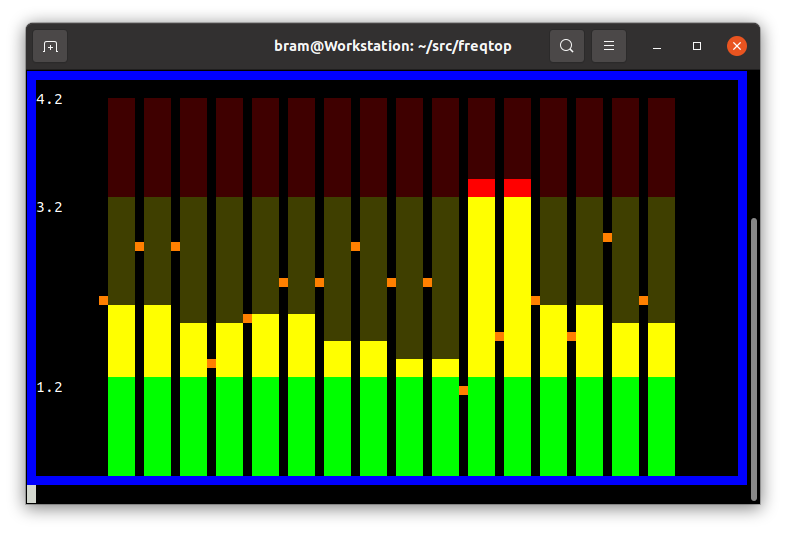
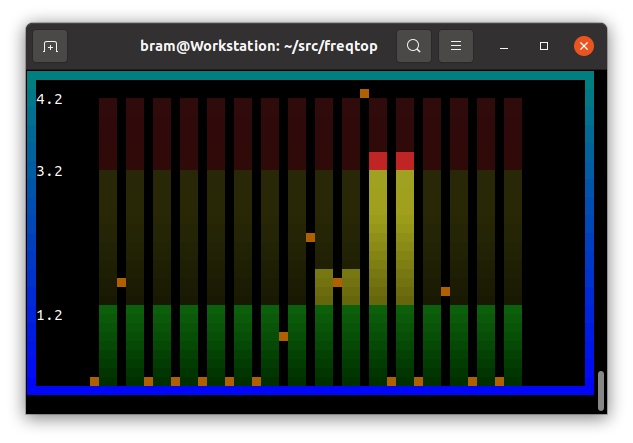
Support terminal resizing.

diff --git a/freqtop.c b/freqtop.c
@@ -1,4 +1,4 @@
-// imcat.c
+// freqtop.c
 //
 // by Abraham Stolk.
 // This software is in the Public Domain.
@@ -12,12 +12,28 @@
 #include <termios.h>
 #include <string.h>
 #include <inttypes.h>
+#include <signal.h>
+#include <sys/ioctl.h>
 
 
 static int termw=0, termh=0;
 static int doubleres=0;
 static int blend=1;
 static unsigned char termbg[3] = { 0,0,0 };
+
+static int imw=0;
+static int imh=0;
+static uint32_t* im=0;
+static char* legend=0;
+
+static int tabw=0;
+static int barw=0;
+static int barh=0;
+static int res=0;
+static int marginx=0;
+
+static int resized=1;
+
 
 #if defined(_WIN64)
 #	include <windows.h>
@@ -62,6 +78,70 @@ static void set_console_mode()
 #endif
 
 
+
+static void setup_image( int num_cpus )
+{
+	if (im) free(im);
+	if (legend) free(legend);
+
+	imw = termw;
+	imh = 2*(termh-1);
+	const size_t sz = imw*imh*4;
+	im = (uint32_t*) malloc(sz);
+	memset( im, 0x00, sz );
+
+	legend = (char*) malloc( imw*(imh/2) );
+	memset( legend, 0x00, imw*(imh/2) );
+
+	// Figure out layout.
+	tabw = (imw-4) / num_cpus;
+	tabw = tabw < 2 ? 2 : tabw;
+	barw = tabw-1;
+	barw = barw > 8 ? 8 : barw;
+	barh = imh-4;
+	marginx = (imw - tabw*num_cpus)/2;
+
+	// Draw border into image.
+	for ( int y=0; y<imh; ++y )
+		for ( int x=0; x<imw; ++x )
+		{
+			uint32_t b = 0x80 + (y/2) * 0xff / imh;
+			uint32_t g = 0xff - b;
+			uint32_t r = 0x00;
+			uint32_t a = 0xff;
+			uint32_t colour = a<<24 | b<<16 | g<<8 | r<<0;
+			im[y*imw+x] = x==0 || x==imw-1 || y==0 || y==imh-1 ? colour : 0x0;
+		}
+}
+
+
+static void setup_legend( int* freq_bas, int* freq_min, int* freq_max )
+{
+	// Set up the legend.
+	char label_bas[16];
+	char label_min[16];
+	char label_max[16];
+	snprintf( label_bas, sizeof(label_bas), "%3.1f", freq_bas[0] / 1000000.0f );
+	snprintf( label_min, sizeof(label_min), "%3.1f", freq_min[0] / 1000000.0f );
+	snprintf( label_max, sizeof(label_max), "%3.1f", freq_max[0] / 1000000.0f );
+	int y=1; int x=1;
+	sprintf( legend + y * imw + x, "%s", label_max );
+	if ( freq_bas[0] != freq_max[0] )
+	{
+		y=(imh/2) - (barh/2) * freq_bas[0] / (float) freq_max[0];
+		sprintf( legend + y * imw + x, "%s", label_bas );
+	}
+	y=(imh/2) - (barh/2) * freq_min[0] / (float) freq_max[0];
+	sprintf( legend + y * imw + x, "%s", label_min );
+}
+
+
+static void sigwinchHandler(int sig)
+{
+	resized = 1;
+}
+
+
 static struct termios orig_termios;
 
 void disableRawMode()
@@ -86,6 +166,8 @@ void enableRawMode()
 #define RESETALL  	"\x1b[0m"
 
 #define CURSORHOME	"\x1b[1;1H"
+
+#define CLEARSCREEN	"\x1b[2J"
 
 
 #if defined(_WIN64)
@@ -253,36 +335,18 @@ int main( int argc, char* argv[] )
 	// Step 0: Windows cmd.exe needs to be put in proper console mode.
 	set_console_mode();
 
-	// Step 1: figure out the width and height of terminal.
-	get_terminal_size();
-	fprintf( stderr, "Your terminal is size %dx%d\n", termw, termh );
-
-	const int imw = termw;
-	const int imh = 2*(termh-1);
-	const size_t sz = imw*imh*4;
-	uint32_t* im = (uint32_t*) malloc(sz);
-	memset( im, 0x00, sz );
-
-	char* legend = (char*) malloc( imw*(imh/2) );
-	memset( legend, 0x00, imw*(imh/2) );
-
-	for ( int y=0; y<imh; ++y )
-		for ( int x=0; x<imw; ++x )
-		{
-			im[y*imw+x] = x==0 || x==imw-1 || y==0 || y==imh-1 ? 0xffff0000 : 0x0;
-		}
-
+	// How many cores in this system?
 	const int num_cpus = sysconf( _SC_NPROCESSORS_ONLN );
 	fprintf( stderr, "Found %d cpus.\n", num_cpus );
 
-	int freq_bas[ num_cpus ];
-	int freq_min[ num_cpus ];
-	int freq_max[ num_cpus ];
-	int freq_cur[ num_cpus ];
-	float usages[ num_cpus ];
-	int coreids [ num_cpus ];
-	int rank    [ num_cpus ];
-	int policy  [ num_cpus ];
+	int freq_bas[ num_cpus ];	// Base frequencies.
+	int freq_min[ num_cpus ];	// Min frequencies.
+	int freq_max[ num_cpus ];	// Max frequencies.
+	int freq_cur[ num_cpus ];	// Current frequencies.
+	float usages[ num_cpus ];	// Core loads.
+	int coreids [ num_cpus ];	// Core ids (could map to hyperthread sibling.)
+	int rank    [ num_cpus ];	// Ordering when displaying bars.
+	int policy  [ num_cpus ];	// Which scaling policy to use. Sometimes (rPi4) cores share 1 policy.
 
 	for ( int cpu=0; cpu<num_cpus; ++cpu )
 	{
@@ -332,41 +396,31 @@ int main( int argc, char* argv[] )
 		fprintf(stderr, "rank %d: %d\n", i, rank[i] );
 	}
 
-	int tabw = (imw-4) / num_cpus;
-	tabw = tabw < 2 ? 2 : tabw;
-	int barw = tabw-1;
-	barw = barw > 8 ? 8 : barw;
-	const int barh = imh-4;
-	const int res = (int) roundf( freq_max[ 0 ] / (float)barh );
-	const int marginx = (imw - tabw*num_cpus)/2;
-
-	const uint32_t ora = 0xff0080ff;
-	const uint32_t yel = 0xff00ffff;
-	const uint32_t grn = 0xff00ff00;
-	const uint32_t red = 0xff0000ff;
-
-	// Set up the legend.
-	char label_bas[16];
-	char label_min[16];
-	char label_max[16];
-	snprintf( label_bas, sizeof(label_bas), "%3.1f", freq_bas[0] / 1000000.0f );
-	snprintf( label_min, sizeof(label_min), "%3.1f", freq_min[0] / 1000000.0f );
-	snprintf( label_max, sizeof(label_max), "%3.1f", freq_max[0] / 1000000.0f );
-	int y=1; int x=1;
-	sprintf( legend + y * imw + x, "%s", label_max );
-	if ( freq_bas[0] != freq_max[0] )
-	{
-		y=(imh/2) - (barh/2) * freq_bas[0] / (float) freq_max[0];
-		sprintf( legend + y * imw + x, "%s", label_bas );
-	}
-	y=(imh/2) - (barh/2) * freq_min[0] / (float) freq_max[0];
-	sprintf( legend + y * imw + x, "%s", label_min );
+	const uint32_t ora = 0xff0060b0;
 
 	enableRawMode();
+
+	// Listen to changes in terminal size
+	struct sigaction sa;
+	sigemptyset( &sa.sa_mask );
+	sa.sa_flags = 0;
+	sa.sa_handler = sigwinchHandler;
+	if ( sigaction( SIGWINCH, &sa, 0 ) == -1 )
+		perror( "sigaction" );
 
 	int done=0;
 	while ( !done )
 	{
+		if ( resized )
+		{
+			printf(CLEARSCREEN);
+			get_terminal_size();
+			setup_image( num_cpus );
+			setup_legend( freq_bas, freq_min, freq_max );
+			resized = 0;
+		}
+		res = (int) roundf( freq_max[ 0 ] / (float)barh );
+
 		char c;
 		const int numr = read( STDIN_FILENO, &c, 1 );
 		if ( numr == 1 && c == 27 )
@@ -377,9 +431,9 @@ int main( int argc, char* argv[] )
 			const int pol = policy[ cpu ];
 			freq_cur[ cpu ] = get_cpu_stat( pol, "scaling_cur_freq" );
 		}
-		for ( int r=0; r<num_cpus; ++r )
+		for ( int ra=0; ra<num_cpus; ++ra )
 		{
-			const int cpu = rank[ r ];
+			const int cpu = rank[ ra ];
 			const int cid = coreids[ cpu ];
 			uint32_t fcur = freq_cur[ cpu ];
 			if ( cid != -1 && cid != cpu )
@@ -387,13 +441,29 @@ int main( int argc, char* argv[] )
 			for ( int i=0; i<barh; ++i )
 			{
 				int f = res * (i+1);
-				uint32_t c = grn;
-				if ( f >= freq_min[cpu] ) c = yel;
-				if ( f >= freq_bas[cpu] ) c = red;
-				if ( f >  fcur          ) c = c & 0x3f3f3f3f;
+				uint8_t r=0x00;
+				uint8_t g=0xc0;
+				uint8_t b=0x00;
+				uint8_t a=0xff;
+			
+				if ( f >= freq_min[cpu] ) { r=0xa0; g=0xa0; b=0x00; }
+				if ( f >= freq_bas[cpu] ) { r=0xc0; g=0x00; b=0x00; }
+				uint32_t lo = 0x30 * i / barh;
+				uint32_t hi = 0x30 + 0xc0 * i / barh;
+				r = r < lo ? lo : r > hi ? hi : r;
+				g = g < lo ? lo : g > hi ? hi : g;
+				b = b < lo ? lo : b > hi ? hi : b;
+				if ( f >  fcur )
+				{
+					r=(r>>2);
+					g=(g>>2);
+					b=(b>>2);
+					a=(a>>2);
+				}
+				uint32_t c = (a<<24) | (b<<16) | (g<<8) | (r<<0);
 				for ( int bx=1; bx<=barw; ++bx )
 				{
-					int x = marginx + r * tabw + bx;
+					int x = marginx + ra * tabw + bx;
 					int y = imh - 2 - i;
 					if ( x < imw )
 						im[ y*imw + x ] = c;
@@ -425,6 +495,7 @@ int main( int argc, char* argv[] )
 #if defined(_WIN64)
 	SetConsoleCP( oldcodepage );
 #endif
+	printf( CLEARSCREEN );
 
 	return 0;
 }

diff --git a/README.md b/README.md
@@ -22,7 +22,7 @@ Press ESCAPE to stop freqtop.
 
 ## Known issues
 
-* Does not respond to resizing of terminal.
+* ~~Does not respond to resizing of terminal.~~
 * Missing manual page.
 
 ## Copyright
